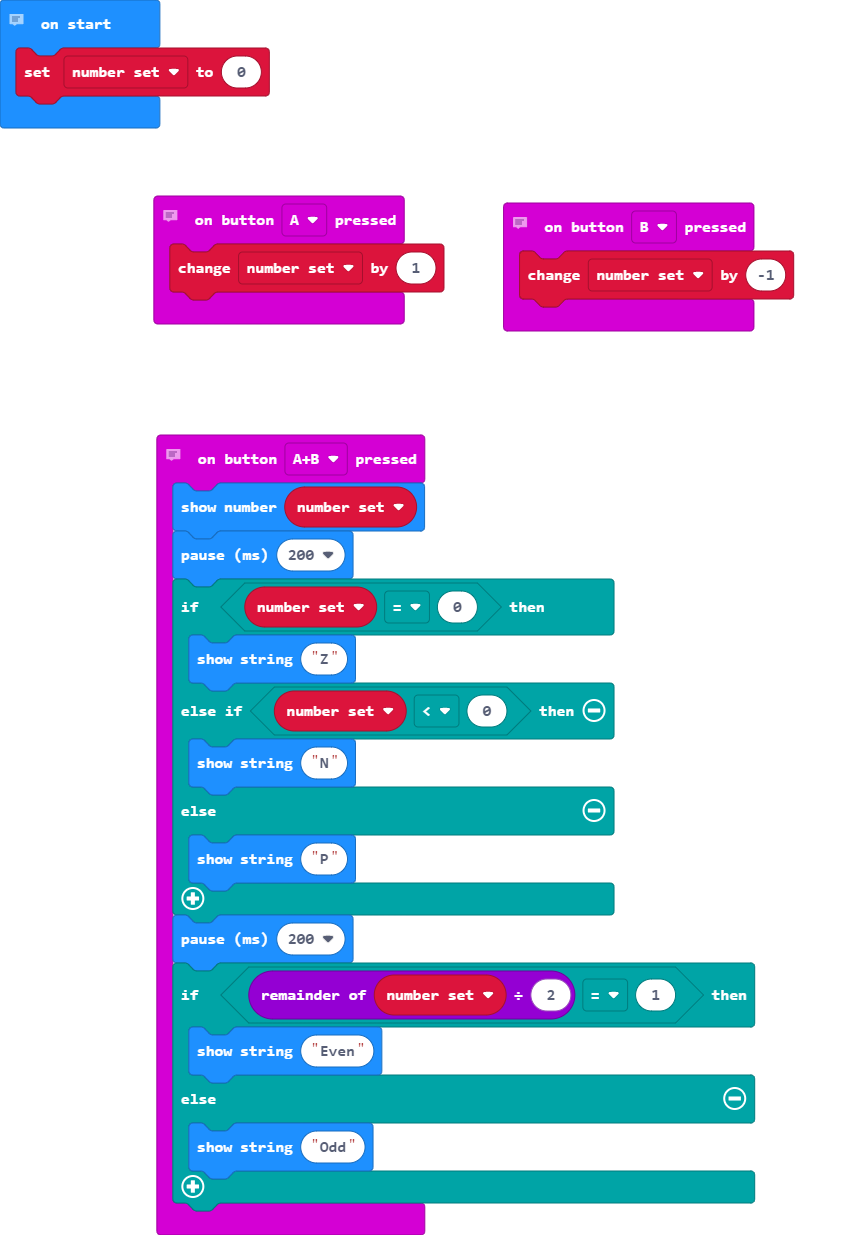
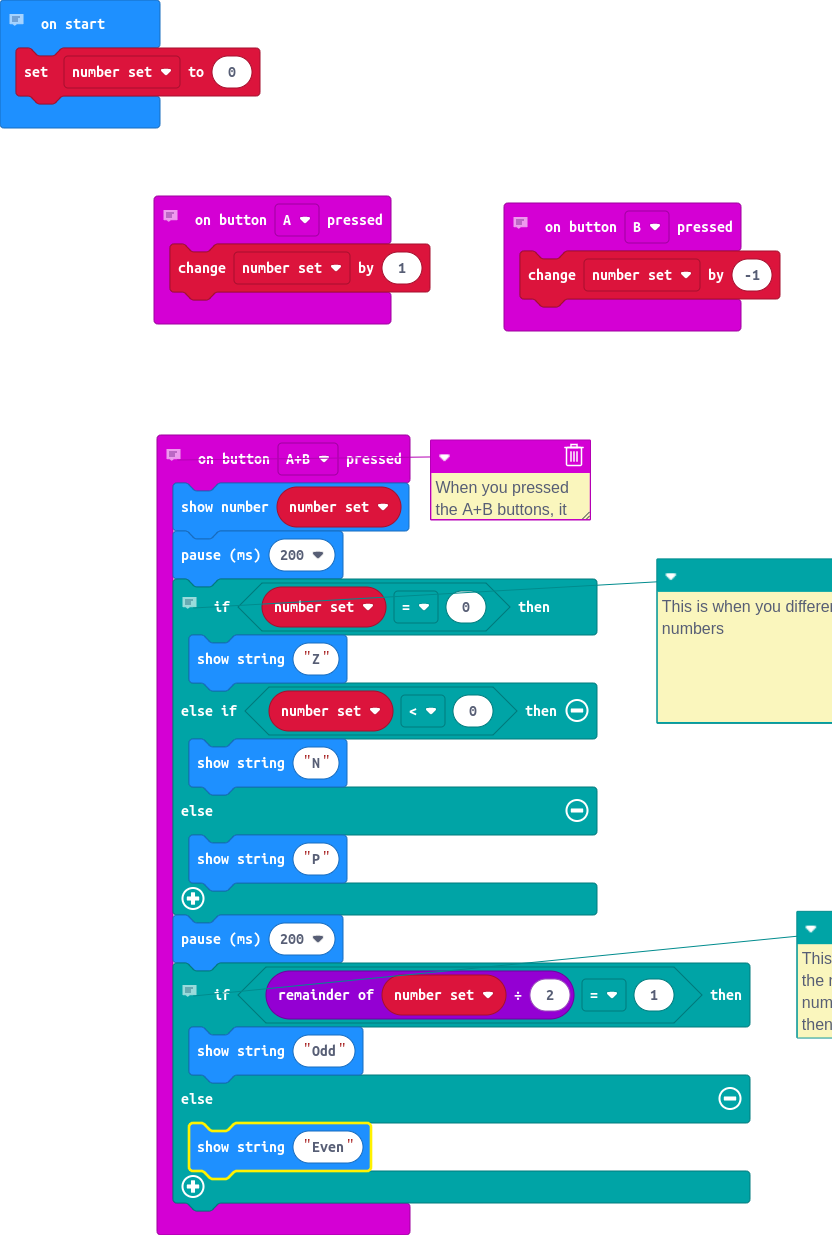
Update main.blocks, main.ts

diff --git a/main.ts b/main.ts
@@ -6,6 +6,7 @@ input.onButtonPressed(Button.A, function () {
 input.onButtonPressed(Button.AB, function () {
     basic.showNumber(number_set)
     basic.pause(200)
+    // This is when you differentiate the numbers 
     if (number_set == 0) {
         basic.showString("Z")
     } else if (number_set < 0) {
@@ -14,10 +15,11 @@ input.onButtonPressed(Button.AB, function () {
         basic.showString("P")
     }
     basic.pause(200)
+    // This is where you divide the numbers and if the number is divisible by 2 then it will show even and it it has a remainder then it will show as odd because everything odd number divided by 2 will have a remainder of 1.
     if (number_set % 2 == 1) {
-        basic.showString("Even")
-    } else {
         basic.showString("Odd")
+    } else {
+        basic.showString("Even")
     }
 })
 // When you press the A button, it will increase the variable by -1. 
